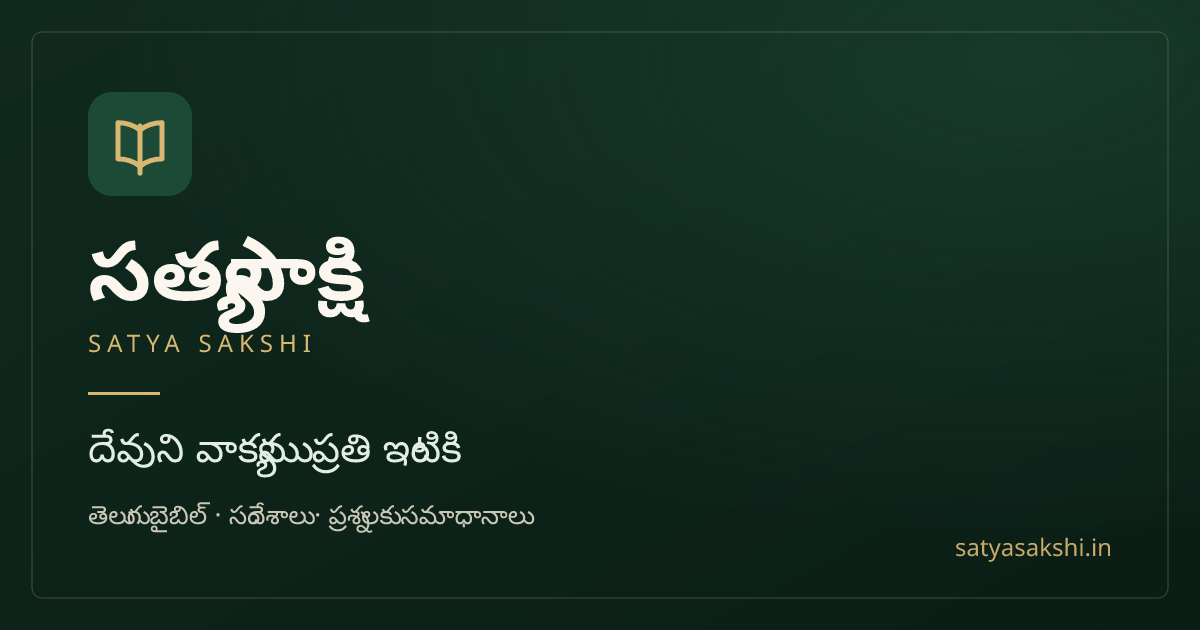
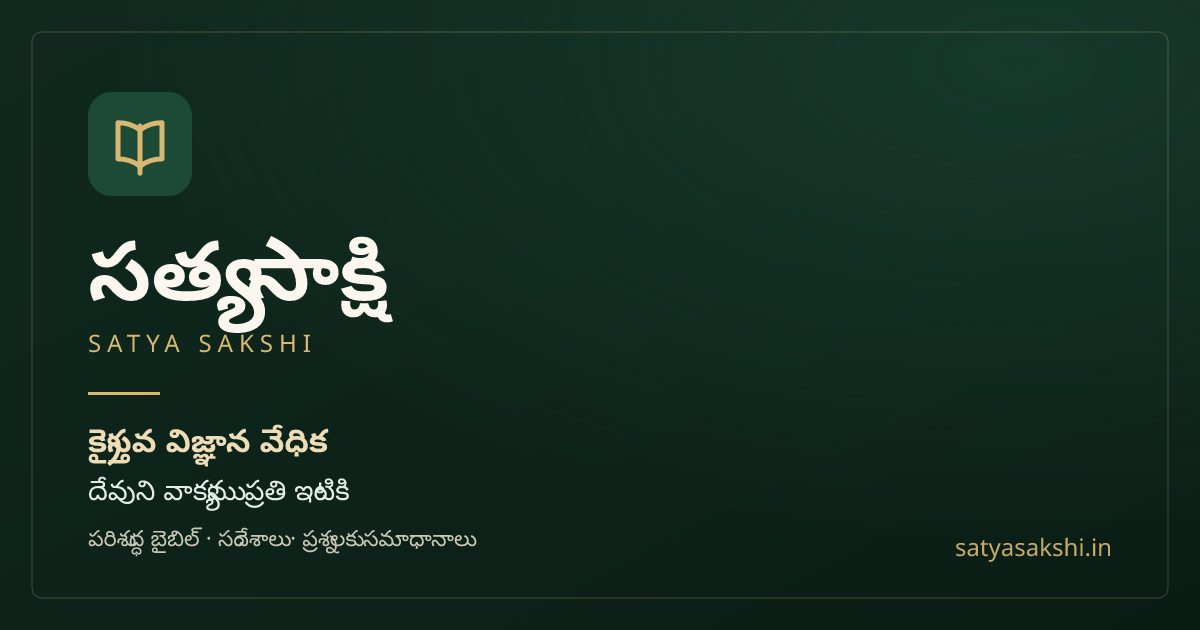
feat(brand): update platform identity to 'సత్య సాక్షి' and 'క్రైస్తవ విజ్ఞాన వేధిక'

Changed region(s): [[0.0617, 0.6635, 0.4625, 0.8746], [0.185, 0.3619, 0.3392, 0.5127]]

diff --git a/index.html b/index.html
@@ -35,22 +35,22 @@
 
     <!-- Title/description/canonical/OG are set per route from the SEO hook.
          These defaults describe the platform as a whole. -->
-    <title>సత్యసాక్షి | తెలుగు క్రైస్తవ జ్ఞాన వేదిక</title>
+    <title>సత్య సాక్షి | క్రైస్తవ విజ్ఞాన వేధిక</title>
     <meta
       name="description"
-      content="సత్యసాక్షి — తెలుగు క్రైస్తవుల కోసం పరిశుద్ధ బైబిల్, బైబిల్ సందేశాలు, ప్రశ్నలు &amp; సమాధానాలు, వ్యాసాలు మరియు వీడియోలను ఒకే వేదికలో అందించే డిజిటల్ జ్ఞాన వేదిక."
+      content="సత్య సాక్షి — తెలుగు క్రైస్తవుల కోసం పరిశుద్ధ బైబిల్, బైబిల్ సందేశాలు, ప్రశ్నలు &amp; సమాధానాలు, వ్యాసాలు మరియు వీడియోలను ఒకే వేదికలో అందించే క్రైస్తవ విజ్ఞాన వేధిక."
     />
     <meta
       name="keywords"
-      content="సత్యసాక్షి, తెలుగు బైబిల్, తెలుగు క్రైస్తవం, Telugu Bible, Bible Telugu, బైబిల్ సందేశాలు, క్రైస్తవ ప్రశ్నలు సమాధానాలు, Telugu Christian, దేవుని వాక్యము"
+      content="సత్య సాక్షి, క్రైస్తవ విజ్ఞాన వేధిక, తెలుగు బైబిల్, తెలుగు క్రైస్తవం, Telugu Bible, Bible Telugu, బైబిల్ సందేశాలు, క్రైస్తవ ప్రశ్నలు సమాధానాలు, Telugu Christian, దేవుని వాక్యము"
     />
     <link rel="canonical" href="https://satyasakshi.in/" />
     <link rel="alternate" hreflang="te" href="https://satyasakshi.in/" />
 
-    <meta property="og:site_name" content="సత్యసాక్షి" />
+    <meta property="og:site_name" content="సత్య సాక్షి" />
     <meta property="og:type" content="website" />
     <meta property="og:locale" content="te_IN" />
-    <meta property="og:title" content="సత్యసాక్షి | తెలుగు క్రైస్తవ జ్ఞాన వేదిక" />
+    <meta property="og:title" content="సత్య సాక్షి | క్రైస్తవ విజ్ఞాన వేధిక" />
     <meta
       property="og:description"
       content="దేవుని వాక్యము ప్రతి ఇంటికి — పరిశుద్ధ బైబిల్, సందేశాలు, ప్రశ్నలు &amp; సమాధానాలు ఒకే వేదికలో."
@@ -59,10 +59,10 @@
     <meta property="og:image" content="https://satyasakshi.in/og-image.png" />
     <meta property="og:image:width" content="1200" />
     <meta property="og:image:height" content="630" />
-    <meta property="og:image:alt" content="సత్యసాక్షి — తెలుగు క్రైస్తవ జ్ఞాన వేదిక" />
+    <meta property="og:image:alt" content="సత్య సాక్షి — క్రైస్తవ విజ్ఞాన వేధిక" />
 
     <meta name="twitter:card" content="summary_large_image" />
-    <meta name="twitter:title" content="సత్యసాక్షి | తెలుగు క్రైస్తవ జ్ఞాన వేదిక" />
+    <meta name="twitter:title" content="సత్య సాక్షి | క్రైస్తవ విజ్ఞాన వేధిక" />
     <meta
       name="twitter:description"
       content="దేవుని వాక్యము ప్రతి ఇంటికి — పరిశుద్ధ బైబిల్, సందేశాలు, ప్రశ్నలు &amp; సమాధానాలు ఒకే వేదికలో."

diff --git a/src/pages/AboutPage.tsx b/src/pages/AboutPage.tsx
@@ -37,9 +37,9 @@ const PILLARS: { icon: IconName; title: string; body: string; to: string }[] = [
 
 export function AboutPage() {
   useSeo({
-    title: 'మా గురించి — సత్యసాక్షి',
+    title: 'మా గురించి — సత్య సాక్షి',
     description:
-      'సత్యసాక్షి గురించి: తెలుగు క్రైస్తవుల కోసం బైబిల్, సందేశాలు, ప్రశ్నలు & సమాధానాలు అందించే డిజిటల్ జ్ఞాన వేదిక. మా లక్ష్యం, మా వనరులు.',
+      'సత్య సాక్షి గురించి: తెలుగు క్రైస్తవుల కోసం బైబిల్, సందేశాలు, ప్రశ్నలు & సమాధానాలు అందించే క్రైస్తవ విజ్ఞాన వేధిక. మా లక్ష్యం, మా వనరులు.',
     path: '/about',
     jsonLd: graph({
       '@type': 'AboutPage',
@@ -71,7 +71,10 @@ export function AboutPage() {
                 <h2 className="mt-1 font-logo text-2xl font-extrabold text-forest-950 sm:text-3xl">
                   {site.brand.telugu}
                 </h2>
-                <p className="mt-1 font-serif italic text-sm font-semibold text-gold-800">
+                <p className="mt-1 font-sans text-sm font-semibold text-gold-800">
+                  {site.brand.positioning}
+                </p>
+                <p className="mt-0.5 font-serif italic text-xs text-ink-muted">
                   &ldquo;{site.brand.tagline}&rdquo;
                 </p>
                 <p className="mt-3 text-sm leading-relaxed text-ink-soft">

diff --git a/src/components/brand/Logo.tsx b/src/components/brand/Logo.tsx
@@ -84,10 +84,10 @@ export function Wordmark({
         : 'text-[1.58rem] sm:text-[1.78rem]'
   const tagline =
     size === 'sm'
-      ? 'text-[0.52rem]'
+      ? 'text-[0.62rem] sm:text-[0.66rem]'
       : size === 'lg'
-        ? 'text-xs'
-        : 'text-[0.56rem] sm:text-[0.60rem]'
+        ? 'text-xs sm:text-sm'
+        : 'text-[0.68rem] sm:text-[0.74rem]'
 
   const alignClass = align === 'center' ? 'items-center text-center' : 'items-start text-left'
 
@@ -102,13 +102,13 @@ export function Wordmark({
       </span>
       {showTagline && (
         <span
-          className={`mt-1.5 ${
+          className={`mt-1 ${
             size === 'lg' ? 'inline-block' : 'hidden sm:inline-block'
-          } font-serif font-semibold leading-none tracking-normal whitespace-nowrap ${tagline} ${
-            onDark ? 'text-gold-300' : 'text-stone-800'
+          } font-sans font-semibold leading-none tracking-normal whitespace-nowrap ${tagline} ${
+            onDark ? 'text-gold-300' : 'text-forest-800'
           }`}
         >
-          {site.brand.tagline}
+          {site.brand.positioning}
         </span>
       )}
     </span>

diff --git a/src/pages/LegalPages.tsx b/src/pages/LegalPages.tsx
@@ -124,7 +124,7 @@ export function TermsPage() {
 
           <h2 className="mb-3 mt-10 text-xl text-forest-950">ఈ సైట్ ఏమి</h2>
           <p>
-            ఇది {site.brand.telugu} అనే సంస్థ సంరక్షించే తెలుగు క్రైస్తవ జ్ఞాన వేదిక. ఇక్కడ
+            ఇది {site.brand.telugu} అనే సంస్థ సంరక్షించే క్రైస్తవ విజ్ఞాన వేధిక. ఇక్కడ
             పరిశుద్ధ బైబిల్, బైబిల్ సందేశాలు, ప్రశ్నలు & సమాధానాలు, వ్యాసాలు అందుబాటులో
             ఉంటాయి.
           </p>

diff --git a/src/config/site.ts b/src/config/site.ts
@@ -13,11 +13,11 @@ export const site = {
   locale: 'te_IN',
 
   brand: {
-    telugu: 'సత్యసాక్షి',
+    telugu: 'సత్య సాక్షి',
     teluguSpaced: 'సత్య సాక్షి',
     english: 'Satya Sakshi',
     tagline: 'We Challenge Conventional Thinking',
-    positioning: 'తెలుగు క్రైస్తవ జ్ఞాన వేదిక',
+    positioning: 'క్రైస్తవ విజ్ఞాన వేధిక',
     mission: 'దేవుని వాక్యము ప్రతి ఇంటికి',
     promise: 'తెలుగు క్రైస్తవులకు బైబిల్ ఆధారిత వనరులు.',
   },
